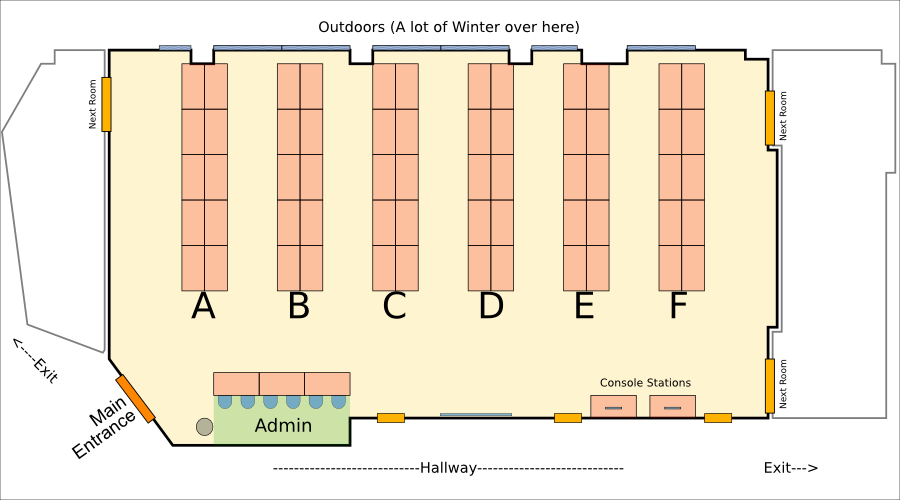
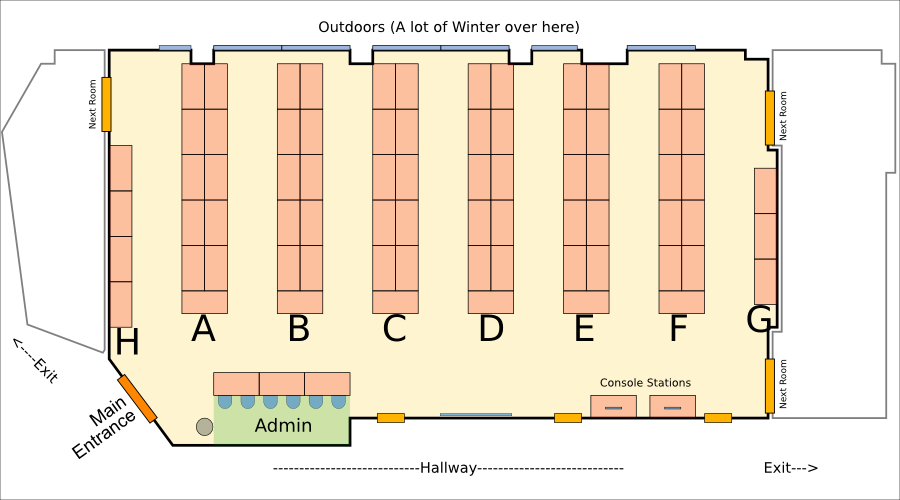
Updated the seating chart.

diff --git a/style/all.css b/style/all.css
@@ -648,7 +648,7 @@ table.tac th {
 	background-image : none !important;
 	text-align : center;
 	vertical-align : middle;
-	border : 1px solid #fff4d0;
+	border : 1px dotted #fff4d0;
 }
 
 .seating-chart .vac2 {

diff --git a/l/seating.inc.php b/l/seating.inc.php
@@ -37,12 +37,12 @@ function genSeatCell($seat, $res_seats = array()) {
 	}
 }
 
-function genSeatCol($letter, $even, $res_seats) {
-	$output = '<td><table cellspacing="2" class="p1">';
-	for ($j = 0; $j < 10; $j++) {
-		$output .= '<tr>' . genSeatCell($letter . (($even ? 20 : 19) - 2 * $j), $res_seats) . '</tr>';
+function genSeatCol($letter, $even, $res_seats, $count = 11) {
+	$output = '<table cellspacing="2" class="p1">';
+	for ($j = 0; $j < $count; $j++) {
+		$output .= '<tr>' . genSeatCell($letter . (($even ? 20 : 19) - 2 * $j + ($j == 10 ? 99 : 0)), $res_seats) . '</tr>';
 	}
-	$output .= '</table></td>';
+	$output .= '</table>';
 	return $output;
 }
 
@@ -57,19 +57,24 @@ function genSeatChart($res_seats = array()) {
 	$output = '<table cellspacing="0" class="seating-chart real">
 <tr style="height:61px;"><td>&nbsp;</td></tr>
 <tr>
-<td style="width:167px;">&nbsp;</td>
+<td style="width:125px;">&nbsp;</td>
 ';
 
+	$output .= '<td><div style="padding-top:82px;">' . genSeatCol('H', 0, $res_seats, 8) . '</div></td>';
+	$output .= '<td style="width:17px;">&nbsp;</td>';
+
+
 	for ($i = 0; $i < 6; $i++) {
-		$output .= genSeatCol(chr(65 + $i), 0, $res_seats);
+		$output .= '<td>' . genSeatCol(chr(65 + $i), 0, $res_seats) . '</td>';
 		$output .= '<td style="width:28px;">&nbsp;</td>';
-		$output .= genSeatCol(chr(65 + $i), 1, $res_seats);
+		$output .= '<td>' . genSeatCol(chr(65 + $i), 1, $res_seats) . '</td>';
 		$output .= '<td style="width:17px;">&nbsp;</td>';
 	}
 
-	$output .= '<td style="width:163px;">&nbsp;</td>
+	$output .= '<td><div style="padding-top:105px;">' . genSeatCol('G', 0, $res_seats, 6) . '</div></td>';
+	$output .= '<td style="width:138px;">&nbsp;</td>
 </tr>
-<tr style="height:207px;"><td>&nbsp;</td></tr>
+<tr style="height:171px;"><td>&nbsp;</td></tr>
 </table>
 ';
 
